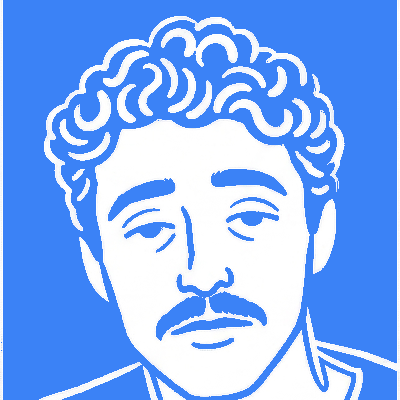
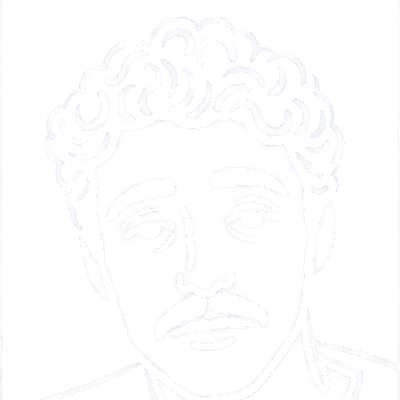
Transparent illustrations + intro text update
- Made all illustration backgrounds transparent (white line art on clear)
- Positioned hero illustration further right with negative margin
- Updated intro animation words: Kia Ora, I, AM, Zadig, Welcome

diff --git a/src/app/page.tsx b/src/app/page.tsx
@@ -54,14 +54,13 @@ export default function Home() {
               initial={{ opacity: 0, scale: 0.9 }}
               animate={{ opacity: 1, scale: 1 }}
               transition={{ duration: 0.7, delay: 0.3, ease: [0.16, 1, 0.3, 1] }}
-              className="hidden md:block shrink-0"
+              className="hidden md:block shrink-0 -mr-10 lg:-mr-16"
             >
               <div className="-scale-x-100">
                 <ZagExpression
                   defaultExpression="smile"
                   hoverExpression="laugh"
-                  size={240}
-                  className="rounded-3xl"
+                  size={260}
                 />
               </div>
             </motion.div>

diff --git a/src/components/intro-animation.tsx b/src/components/intro-animation.tsx
@@ -3,7 +3,7 @@
 import { useEffect, useState } from "react";
 import { motion } from "framer-motion";
 
-const words = ["Hello", "Bonjour", "Kia ora", "Hola", "Ciao", "raglandigital"];
+const words = ["Kia Ora", "I", "AM", "Zadig", "Welcome", "raglandigital"];
 
 const opacity = {
   initial: { opacity: 0 },
